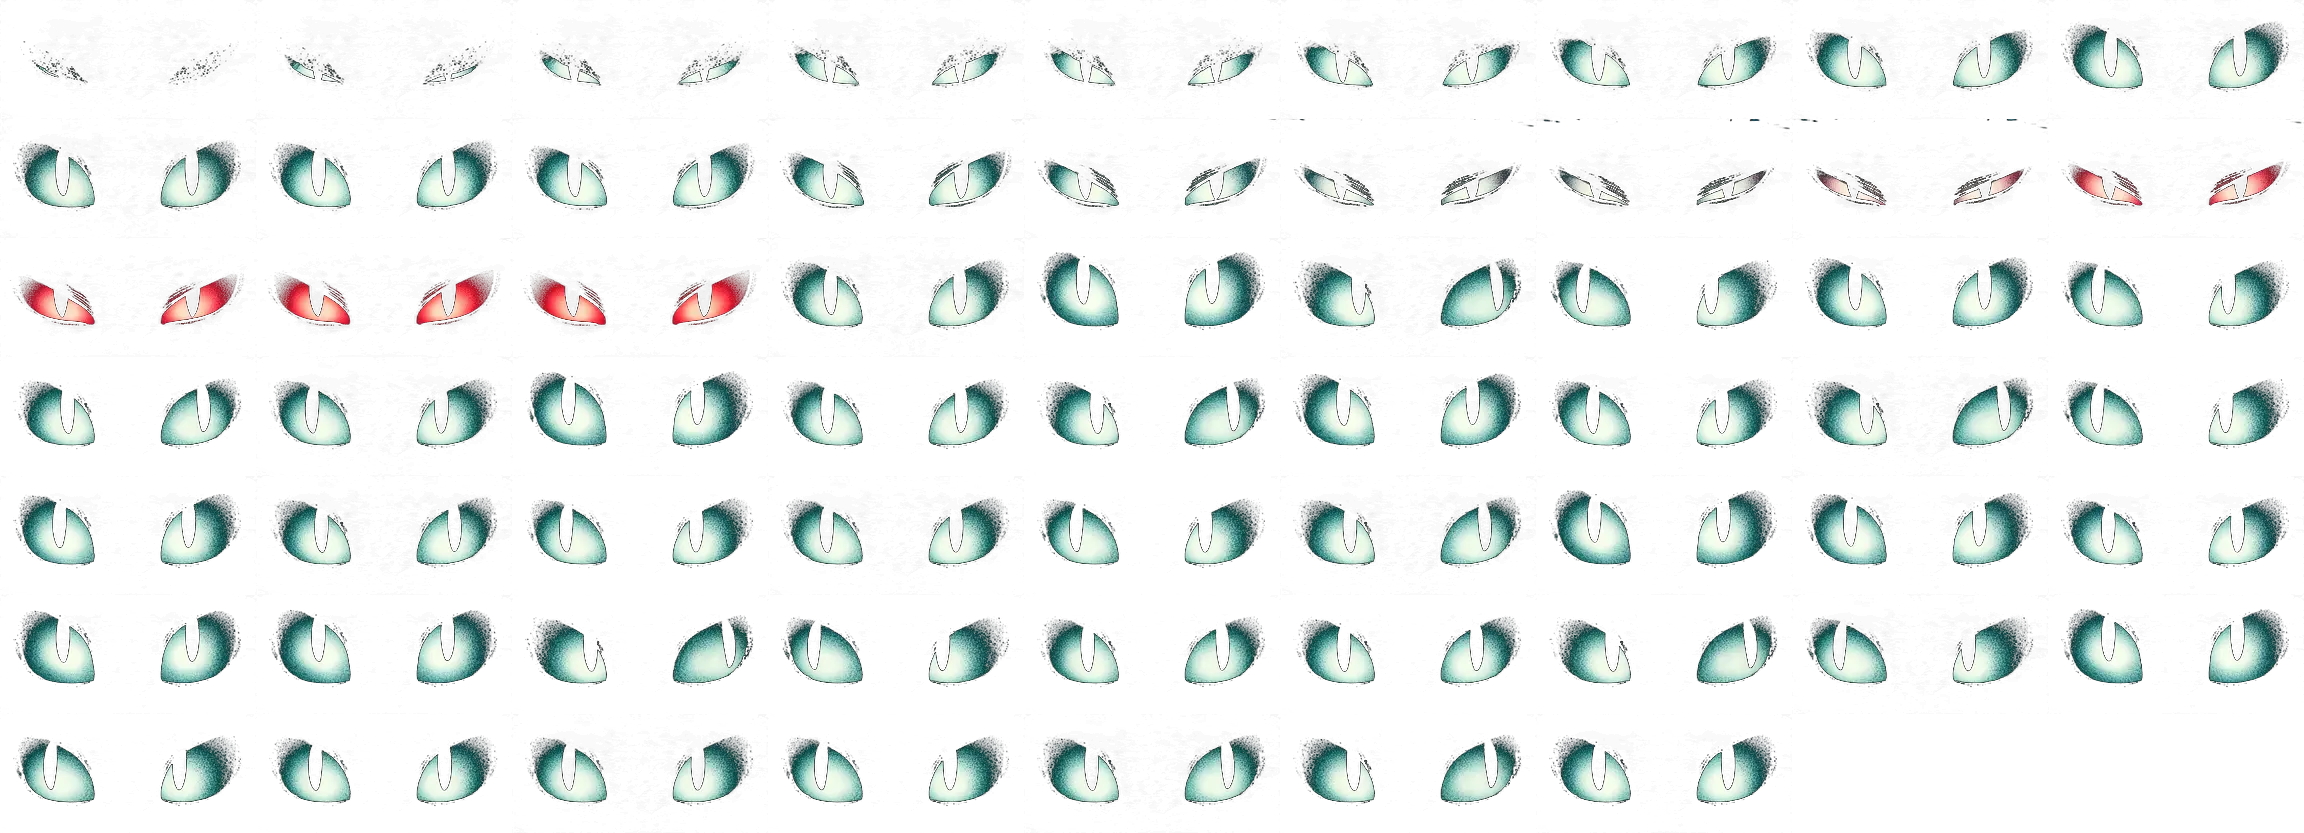
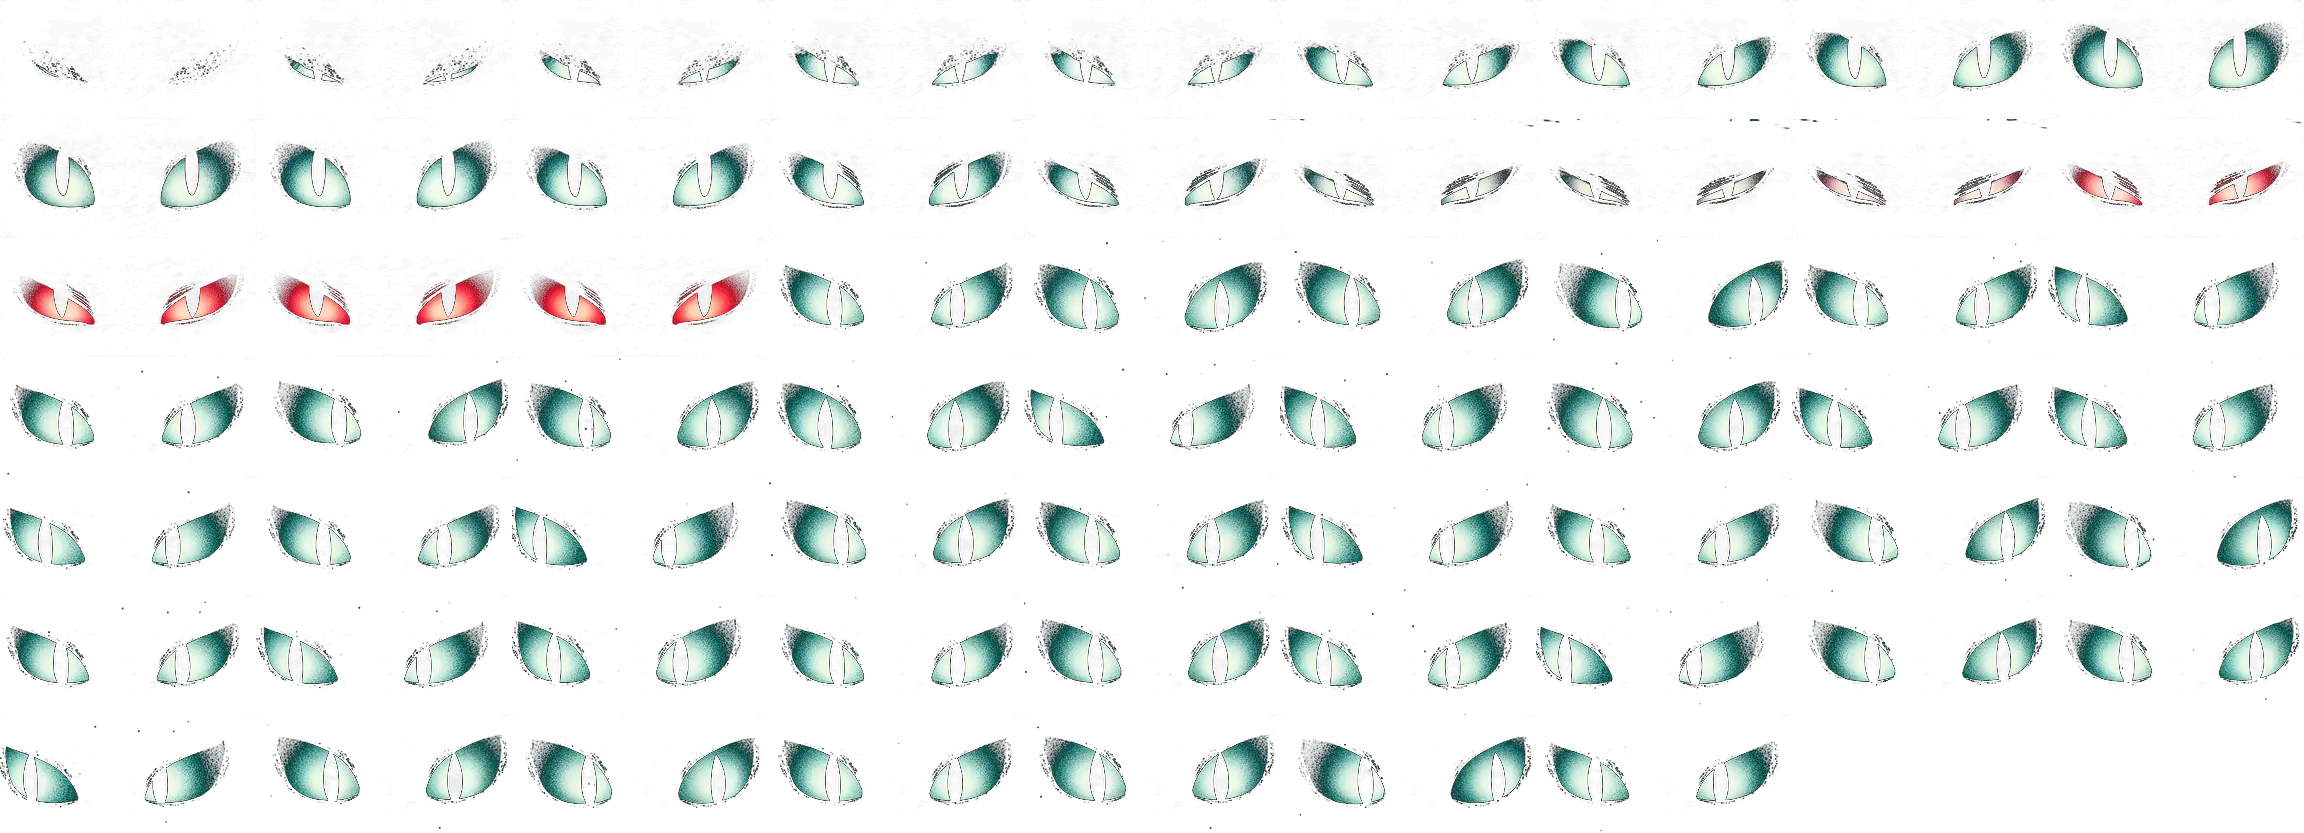
Eyes: gaze frames from upright-pupil clip
Claude-Session: https://claude.ai/code/session_01U3oHwuga7h99Y96FKvzDg

diff --git a/web/public/ghost-ambience.js b/web/public/ghost-ambience.js
@@ -8,7 +8,7 @@ const nz=(t,s)=>Math.sin(t*1.3+s)*.5+Math.sin(t*2.7+s*1.7)*.3+Math.sin(t*5.1+s*3
 const EYE_D=[[0.082,0.085,1.1,0],[0.260,0.061,0.7,1],[0.463,0.110,0.8,0],[0.735,0.053,0.9,0],[0.919,0.103,1.2,1],[0.971,0.481,0.7,0],[0.036,0.559,0.8,1],[0.324,0.906,0.75,0],[0.685,0.882,0.9,1],[0.835,0.280,0.6,0]]; // [x,y,size,red] from the 登录页 纸人版 layout
 const EYE_M=[[0.097,0.025,0.8,0],[0.482,0.019,0.6,1],[0.869,0.032,0.85,0],[0.487,0.833,0.7,1],[0.490,0.958,0.55,0]];
 
-const EYE_GAZE=[[-0.006,-0.168,21],[-0.046,-0.311,22],[0.252,-0.184,23],[-0.222,-0.125,24],[0.003,-0.246,25],[-0.157,-0.176,26],[0.097,-0.2,27],[-0.089,-0.14,28],[-0.08,-0.269,29],[-0.011,-0.207,30],[0.173,-0.169,31],[0.006,-0.286,32],[-0.079,-0.18,33],[0.197,-0.198,34],[-0.188,-0.153,35],[-0.044,-0.23,36],[0.051,-0.188,37],[-0.113,-0.162,38],[-0.057,-0.158,39],[-0.143,-0.141,40],[0.117,-0.18,41],[-0.059,-0.288,42],[-0.063,-0.25,43],[-0.033,-0.186,44],[0.002,-0.267,45],[-0.004,-0.305,46],[0.254,-0.167,47],[-0.226,-0.141,48],[0.037,-0.202,49],[0.03,-0.167,50],[0.219,-0.187,51],[-0.195,-0.136,52],[-0.029,-0.293,53],[-0.162,-0.163,54],[-0.048,-0.17,55],[-0.086,-0.153,56],[-0.135,-0.153,57],[0.095,-0.188,58],[0.188,-0.188,59],[-0.007,-0.183,60]];
+const EYE_GAZE=[[-0.019,0.152,21],[0.046,-0.104,22],[-0.228,0.081,23],[0.161,0.158,24],[0.032,0.027,25],[-0.144,0.162,26],[-0.107,0.066,27],[0.11,0.085,28],[0.069,0.183,29],[-0.048,0.23,30],[-0.042,-0.019,31],[-0.028,0.086,32],[0.041,0.1,33],[-0.076,0.121,34],[-0.091,0.189,35],[-0.037,0.038,36],[0.001,0.208,37],[-0.185,0.13,38],[-0.183,0.056,39],[0.072,0.137,40],[-0.126,0.117,41],[-0.04,0.189,42],[0.115,0.149,43],[0.14,0.193,44],[0.003,0.0,45],[-0.068,0.087,46],[-0.069,0.156,47],[-0.014,0.119,48],[0.032,0.139,49],[-0.075,0.036,50],[-0.183,0.162,51],[0.093,0.056,52],[0.056,0.071,53],[-0.132,0.045,54],[-0.007,0.064,55],[0.099,0.193,56],[-0.012,0.179,57],[0.016,0.115,58],[0.154,0.133,59],[-0.05,0.137,60]];const EYE_GC=[-0.021,0.144,0.194,0.168]; // gaze table: [pupil x, pupil y, frame] + centre/half-range
 const EYE_ATLAS={fw:256,fh:119,ok:false,img:new Image()};EYE_ATLAS.img.onload=()=>{EYE_ATLAS.ok=true;};EYE_ATLAS.img.src='img/eyes.webp';
 
 class GhostAmbience extends HTMLElement{
@@ -208,8 +208,8 @@ class GhostAmbience extends HTMLElement{
     if(e.ang>.5){i=9+Math.round(e.ang*11);sy=Math.max(.05,e.open);}
     else if(e.open<.98)i=Math.round(Math.max(0,e.open)*8);
     else if(e.ang>.02)i=9+Math.round(e.ang*11);
-    else{let b=1e9;i=21;const gx=e.lx*.24,gy=-.17+e.ly*.16;
-      for(const g of EYE_GAZE){const d=(g[0]-gx)*(g[0]-gx)+(g[1]-gy)*(g[1]-gy)*5.8;if(d<b){b=d;i=g[2];}}}
+    else{let b=1e9;i=21;const gx=EYE_GC[0]+e.lx*EYE_GC[2],gy=EYE_GC[1]+e.ly*EYE_GC[3];
+      for(const g of EYE_GAZE){const d=((g[0]-gx)/EYE_GC[2])**2+((g[1]-gy)/EYE_GC[3])**2;if(d<b){b=d;i=g[2];}}}
     c.save();c.globalAlpha=Math.min(1,e.open*3)*.95;
     c.drawImage(A.img,(i%9)*A.fw,Math.floor(i/9)*A.fh,A.fw,A.fh,x+(e.ang>.5?0:e.lx*2.5*k),y+dh*(1-sy)/2+(e.ang>.5?0:e.ly*3*k),dw,dh*sy);
     c.restore();
